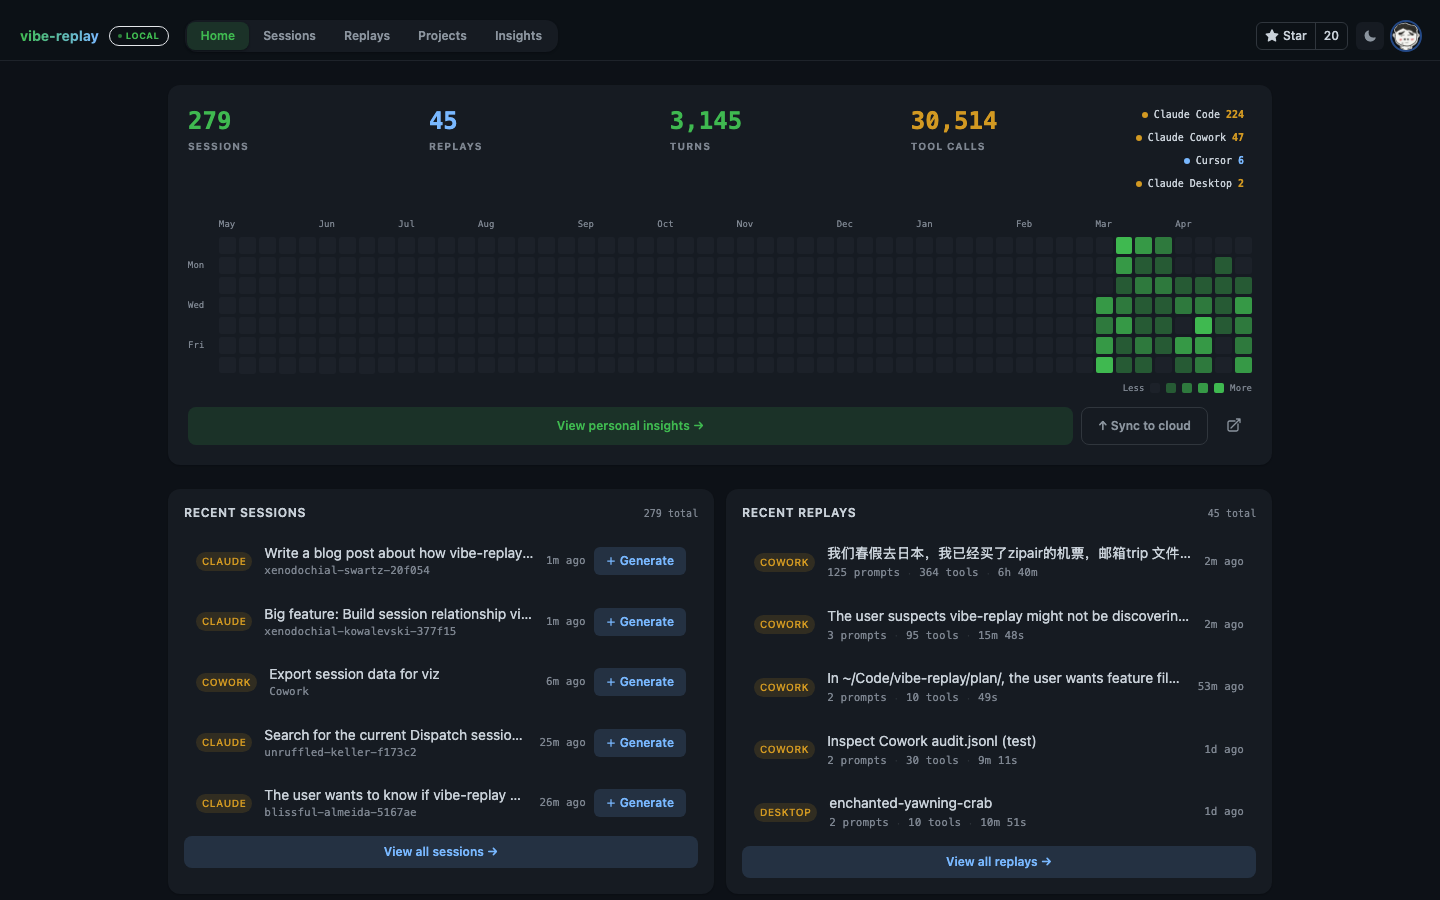
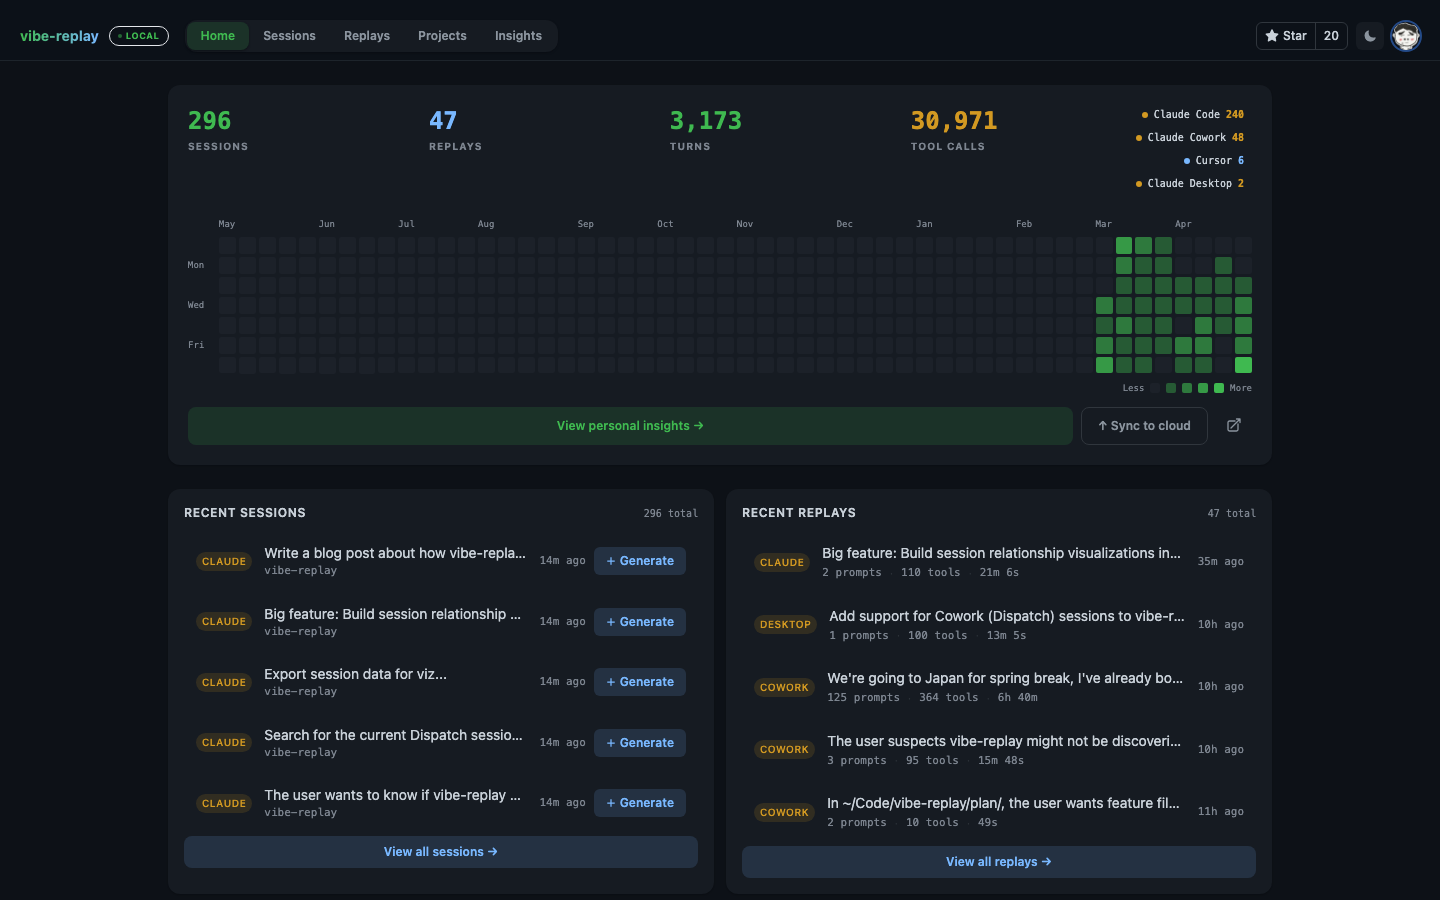
blog: rewrite dispatch deep-dive for narrative pull, refresh screenshots in English
- Restructure around two core insights (self-contained transcripts, cliSessionId trap)
  and open with the Japan-trip Cowork session as a hook instead of leading with
  Code-tab vs Cowork-tab background.
- Trim large code blocks (dedup priority, encodedCwd path tricks) to prose.
- Regenerate all five screenshots in English using vibe-replay's translate API
  (Studio AI translate) so non-Chinese readers can follow.

diff --git a/website/src/content/blog/dispatch-deep-dive.md b/website/src/content/blog/dispatch-deep-dive.md
@@ -1,201 +1,139 @@
 ---
 title: "Capturing Claude's Autonomous Agent Mode: A Deep Dive into Dispatch"
-excerpt: "vibe-replay now captures Claude Desktop sessions — both the Code tab and Cowork's autonomous Dispatch mode. Here's how three different providers discover, deduplicate, and replay every session type Claude produces."
+excerpt: "I let Claude plan a 6-hour Japan trip in Cowork mode. Then I tried to replay it — and vibe-replay couldn't see the session at all. Here's what it took to fix that."
 cover: "/blog/dispatch-deep-dive/dashboard.png"
 date: 2026-04-25
 readTime: "8 min read"
 ---
 
-[![vibe-replay dashboard showing 279 sessions across Claude Code, Claude Cowork, Cursor, and Claude Desktop providers](/blog/dispatch-deep-dive/dashboard.png)](/blog/dispatch-deep-dive/dashboard.png)
+I let Claude plan a Japan spring break trip in autonomous mode. 6 hours, 125 prompts, 364 tool calls — Gmail searches, browser sessions, calendar checks, all chained together while I went about my day. When I came back, I wanted to replay it.
 
-When you open Claude Desktop, you get two very different AI experiences. The **Code tab** is Claude Code running in a managed environment — the same CLI, the same JSONL transcripts, same tool calls you'd see in your terminal. The **Cowork tab** is something else entirely: an autonomous agent mode where Claude runs in an isolated sandbox VM, orchestrates multi-step plans on your behalf, and writes its transcript into a completely different location on disk.
-
-vibe-replay now captures both. This post covers the architecture that makes it work.
-
----
-
-## What is Dispatch?
-
-When Claude Desktop runs in Cowork (autonomous agent) mode, it operates what Anthropic internally calls **Dispatch** — an orchestrator process that manages long-running agentic sessions. The name is fitting: Dispatch spawns and coordinates child tasks, maintains its own session state, and keeps a full audit trail separate from your regular Claude Code sessions.
-
-Each Cowork session runs inside a sandboxed VM with its own process name — codenames like `hopeful-awesome-feynman` or `zealous-wonderful-meitner` — and its own isolated filesystem rooted at `/sessions/{processName}/`. Your real folders are mounted into this sandbox via `userSelectedFolders`, but the session itself doesn't know it's running on your Mac. It thinks it has a fresh environment.
-
-The transcript format is almost identical to Claude Code's JSONL — but the outer wrapper records carry a `session_id` field instead of using filenames as identifiers, and tool names use MCP-style prefixes (`mcp__workspace__bash` instead of `Bash`, `mcp__cowork__request_cowork_directory` for workspace access). These subtle differences are what the new `claude-cowork` provider handles.
-
----
-
-## Where the Sessions Live
-
-Here's what the filesystem looks like after a few days of Claude Desktop usage:
-
-```
-~/Library/Application Support/Claude/
-├── claude-code-sessions/          ← Code tab sessions (Desktop provider)
-│   └── {accountId}/{orgId}/
-│       └── local_{id}.json        ← metadata: title, model, cliSessionId, cwd
-│
-└── local-agent-mode-sessions/     ← Cowork/Dispatch sessions
-    └── {accountId}/{orgId}/
-        ├── local_{id}.json        ← metadata: title, model, initialMessage
-        └── local_{id}/
-            └── audit.jsonl        ← full transcript (self-contained)
-```
-
-Compare this to Claude Code's native location:
-
-```
-~/.claude/projects/
-└── {encoded-cwd}/
-    └── {sessionId}.jsonl          ← transcript (CLI sessions)
-```
-
-The key distinction: **Cowork transcripts are self-contained**. The audit.jsonl file lives next to its metadata JSON, no cross-referencing required. Desktop Code-tab sessions, by contrast, store only metadata locally — the actual transcript is in `~/.claude/projects/`, referenced by `cliSessionId`.
-
----
-
-## Three Providers, One Discovery Pass
-
-vibe-replay now runs three parallel discovery passes, each targeting a different location:
-
-### `claude-code` — The original
-
-Scans `~/.claude/projects/` for JSONL files. Streams each file line-by-line, extracting session metadata from the first ~30 lines (slug, model, git branch) and counting prompts and tool calls with lightweight regex passes over every line. Returns one `SessionInfo` per file.
-
-### `claude-desktop` — Code tab sessions from Desktop
-
-Reads metadata from `~/Library/Application Support/Claude/claude-code-sessions/{accountId}/{orgId}/local_*.json`. Each metadata file contains a `cliSessionId` — the UUID of the backing JSONL in `~/.claude/projects/`. The provider encodes the `cwd` field using the same `/` → `-` scheme Claude Code uses for its project directory names, then resolves the JSONL path:
-
-```typescript
-const encodedCwd = desktop.cwd.replace(/\/+$/, "").replace(/\//g, "-");
-const jsonlPath = join(claudeProjectsDir, encodedCwd, `${desktop.cliSessionId}.jsonl`);
-```
-
-Once the JSONL is found, it hands off to the same `extractSessionInfo` function used by the `claude-code` provider, then overlays the richer Desktop metadata (title, model, timestamps) on top.
-
-### `claude-cowork` — Dispatch/autonomous sessions
-
-Reads metadata from `~/Library/Application Support/Claude/local-agent-mode-sessions/{accountId}/{orgId}/local_*.json`. Instead of resolving an external JSONL, it looks for the co-located audit file:
-
-```typescript
-const dir = jsonPath.replace(/\.json$/, "");  // local_{id}.json → local_{id}/
-const auditPath = join(dir, "audit.jsonl");
-```
-
-Then streams the audit.jsonl to count prompts and tool calls — the same line-by-line streaming approach as `claude-code`, but adapted for the Cowork wrapper format.
-
-One ID subtlety that matters: the `sessionId` used for deduplication is derived from the metadata's `sessionId` field (stripping the `local_` prefix), **not** the `cliSessionId`. The `cliSessionId` in a Cowork session identifies the inner Claude Code subprocess running inside the sandbox — a completely different UUID that doesn't appear on the outer audit records the parser reads. Using it for session identity would permanently break replay-to-source linking.
-
----
-
-## Deduplication: When the Same Session Appears Twice
-
-Claude Code sessions surfaced through the Desktop UI have a real collision problem: the same JSONL file on disk shows up under both `claude-code` (which finds it by scanning `~/.claude/projects/`) and `claude-desktop` (which resolves it via `cliSessionId`). Both providers assign the same `sessionId` to this session.
-
-After all three providers finish discovery, vibe-replay deduplicates by `sessionId` with a priority ordering:
-
-```typescript
-const PROVIDER_PRIORITY = ["claude-cowork", "claude-desktop", "claude-code", "cursor"];
-```
-
-```typescript
-export function deduplicateSessionsByProvider(sessions: SessionInfo[]): SessionInfo[] {
-  const seen = new Map<string, SessionInfo>();
-  for (const session of sessions) {
-    const existing = seen.get(session.sessionId);
-    if (!existing) {
-      seen.set(session.sessionId, session);
-    } else {
-      const existingPrio = PROVIDER_PRIORITY.indexOf(existing.provider);
-      const newPrio = PROVIDER_PRIORITY.indexOf(session.provider);
-      if (newPrio !== -1 && (existingPrio === -1 || newPrio < existingPrio)) {
-        seen.set(session.sessionId, session);
-      }
-    }
-  }
-  return Array.from(seen.values());
-}
-```
-
-The priority order reflects data quality: `claude-desktop` keeps the session over `claude-code` because it has richer metadata — the title that Claude Desktop infers, the exact model used, and precise timestamps from the Desktop process. `claude-cowork` ranks first because its transcript is authoritative and self-contained. `cursor` uses an entirely different ID scheme, so it never collides with the Claude family.
-
----
-
-## What a Cowork Replay Looks Like
-
-Here's a real Cowork session — 125 prompts, 364 tool calls, 6 hours and 40 minutes of autonomous Claude planning a Japan spring break trip:
+vibe-replay couldn't see the session.
 
 [![Cowork session landing page showing 'A Claude Cowork session replay by vibe-replay' — 125 turns, $71.07 cost](/blog/dispatch-deep-dive/cowork-landing.png)](/blog/dispatch-deep-dive/cowork-landing.png)
 
-The landing page shows the "Claude Cowork session" label, the sandbox VM's process name as the title, and the tool call summary. Tools include `gmail_read_message`, `AskUserQuestion`, `navigate`, and `Claude_in_Chrome` — the full MCP toolkit that Cowork makes available.
+It now can. This is what it took.
+
+---
+
+## Two Claudes in one app
+
+Claude Desktop is actually two AI experiences sharing a window. The **Code tab** is Claude Code in a managed wrapper — the same CLI, the same JSONL transcripts, the same tool calls you'd see in your terminal. The **Cowork tab** is something else entirely: an autonomous agent mode where Claude runs in an isolated sandbox VM, orchestrates multi-step plans on its own, and writes its transcript to a completely different place on disk.
+
+Anthropic internally calls the orchestrator behind Cowork **Dispatch** — and the name fits. Each Cowork session spins up a sandboxed VM with a codename like `hopeful-awesome-feynman` or `zealous-wonderful-meitner`, mounts your real folders into a fake filesystem rooted at `/sessions/{processName}/`, and writes its full audit trail into:
+
+```
+~/Library/Application Support/Claude/local-agent-mode-sessions/.../audit.jsonl
+```
+
+That's nowhere near `~/.claude/projects/`, which is what vibe-replay had been scanning since day one.
+
+That's the surface answer to "why couldn't it see the session." But once I started reading audit files, two deeper things mattered.
+
+---
+
+## Discovery 1: Cowork transcripts are self-contained
+
+Claude Code's storage layout has a small but consequential split. Metadata lives in one place; the transcript lives in another, joined by an ID:
+
+```
+~/.claude/projects/{encoded-cwd}/{sessionId}.jsonl   ← transcript
+~/Library/.../claude-code-sessions/.../local_{id}.json   ← metadata, with cliSessionId pointing back to the JSONL
+```
+
+To replay a Code-tab session, you read the metadata, follow the pointer, and find the JSONL — which means re-implementing Claude's "encode cwd by replacing `/` with `-`" path scheme. Brittle, but solvable.
+
+Cowork chose a different shape:
+
+```
+~/Library/.../local-agent-mode-sessions/{accountId}/{orgId}/
+├── local_{id}.json     ← metadata (title, model, initialMessage)
+└── local_{id}/
+    └── audit.jsonl     ← full transcript, right next door
+```
+
+No cross-references. No path encoding tricks. The transcript sits next to its metadata in a sibling directory. This is the kind of design choice that probably saved its authors a week of debugging — and it lets vibe-replay treat each Cowork session as a single self-contained unit, no matter what sandbox it ran in or what codename it got.
+
+---
+
+## Discovery 2: the `cliSessionId` trap
+
+Cowork sessions also carry a `cliSessionId` field. The name is suggestive — exactly the kind of thing you'd grab as a dedup key without thinking.
+
+Don't.
+
+The `cliSessionId` in a Cowork session is the UUID of the **inner Claude Code subprocess running inside the sandbox VM** — a completely separate process from the one writing the audit trail you're reading. It doesn't appear anywhere on the outer audit records. Treat it as the session's identity and you'll permanently break replay-to-source linking: every time the sandbox restarts that inner CLI, the "same" session gets a new ID.
+
+The right key is the metadata's `sessionId` field (with the `local_` prefix stripped). That's the stable, outer-loop identity of the Cowork session itself.
+
+I learned this the long way. Future me, reading this post, gets to skip that.
+
+---
+
+## Three providers, one discovery pass
+
+With those two insights, the rest of the implementation falls out:
+
+- **`claude-code`** scans `~/.claude/projects/` for raw JSONL files. The original provider.
+- **`claude-desktop`** reads metadata from the Code tab's location, follows `cliSessionId` to `~/.claude/projects/` to find the actual JSONL, and overlays Desktop's richer metadata (title, exact model, permission mode) on top.
+- **`claude-cowork`** reads metadata from the autonomous-mode location and goes straight to the co-located audit.jsonl. No path resolution required — that's discovery 1 paying off.
+
+All three run in parallel and produce a flat list of sessions.
+
+Parallel discovery introduces a collision: the same Code-tab JSONL gets found twice — once raw by `claude-code`, once with metadata by `claude-desktop`. Both providers correctly assign the same `sessionId` to it. Dedup just keeps the best-quality record using a fixed priority:
+
+```
+claude-cowork → claude-desktop → claude-code → cursor
+```
+
+`claude-desktop` wins over `claude-code` because it has the title and model that the Desktop UI inferred. `claude-cowork` ranks first because its transcript is authoritative. `cursor` uses a different ID scheme entirely, so it never collides with the Claude family.
+
+---
+
+## What replay looks like now
+
+A Cowork session in the player:
 
 [![The replay player showing the Japan trip planning session — prompt outline on left, conversation in center, tool use tags visible](/blog/dispatch-deep-dive/cowork-player.png)](/blog/dispatch-deep-dive/cowork-player.png)
 
-The player works identically to Claude Code replays. Left panel shows the session outline with every user prompt. Center shows the conversation: `YOU` turns with the user's message, `ASSISTANT` turns with tool-use summaries and the final response.
+Left panel: outline of every user prompt — useful when there are 125 of them. Center: the conversation, with tool-use tags inline. The MCP toolkit Cowork exposes (`gmail_read_message`, `AskUserQuestion`, `navigate`, `Claude_in_Chrome`) shows up as recognizable tool tags instead of raw `mcp__workspace__*` strings.
 
----
-
-## Desktop Sessions: Richer Metadata
-
-Code-tab sessions running through Claude Desktop get the `claude-desktop` badge and pick up extra metadata that the raw JSONL doesn't contain — the human-readable title Desktop assigns, the exact permission mode, and git worktree context:
+Code-tab sessions running through Desktop pick up extra metadata the raw JSONL never sees — the human-readable title Desktop inferred, the permission mode, the git worktree branch:
 
 [![Claude Desktop session landing showing 'A Claude Desktop session replay' with worktree branch and dangerous mode badge](/blog/dispatch-deep-dive/desktop-session-landing.png)](/blog/dispatch-deep-dive/desktop-session-landing.png)
 
-This session is literally the implementation of the Cowork provider itself. The first prompt: *"Add support for Cowork (Dispatch) sessions to vibe-replay. This builds on top of PR #187..."* The `dangerous mode` badge comes from the Desktop metadata's `permissionMode` field; the `claude/crazy-ishizaka-06a286` tag is the git worktree branch name. Neither is available from the JSONL alone.
+(That session is literally the implementation of the Cowork provider itself. The first prompt: *"Add support for Cowork (Dispatch) sessions to vibe-replay…"* The `dangerous mode` badge and `claude/crazy-ishizaka-06a286` branch name come from Desktop's metadata.)
 
----
-
-## The Dashboard: All Sessions in One Place
-
-With three providers running in parallel, the vibe-replay dashboard shows everything:
+And the dashboard ties it all together:
 
 [![vibe-replay dashboard: 279 sessions — Claude Code 224, Claude Cowork 47, Cursor 6, Claude Desktop 2, plus activity heatmap](/blog/dispatch-deep-dive/dashboard.png)](/blog/dispatch-deep-dive/dashboard.png)
 
-279 sessions total. 224 Claude Code, 47 Cowork, 6 Cursor, 2 Desktop. The heatmap shows activity concentrated in the last few months — that's when most of the Cowork experimentation happened.
-
-The "CLAUDE" badge in the sessions list is `claude-code`. "COWORK" is `claude-cowork`. "DESKTOP" is `claude-desktop`. The badges are how you tell them apart at a glance.
+279 sessions across all four providers. The badges (`CLAUDE`, `COWORK`, `DESKTOP`) are how you tell them apart at a glance:
 
 [![Sessions list showing CLAUDE, COWORK, and DESKTOP provider badges](/blog/dispatch-deep-dive/sessions-list.png)](/blog/dispatch-deep-dive/sessions-list.png)
 
 ---
 
-## Generating a Replay
+## Try it
 
-If you have Claude Desktop installed with Cowork sessions, generating a replay is one command:
+If you've used Cowork at all, you have audit files sitting on disk right now:
 
 ```bash
 npx vibe-replay
 ```
 
-vibe-replay auto-discovers all session types. In the interactive picker, Cowork sessions appear grouped under "Cowork" instead of a filesystem path (since they all run in sandboxed VMs with meaningless paths like `/sessions/hopeful-awesome-feynman`). Select one and a self-contained HTML file drops into `~/.vibe-replay/{sessionId}/index.html`.
+Auto-discovery picks up everything — Code, Desktop, Cowork, Cursor. Pick a session, get a self-contained HTML file in `~/.vibe-replay/{sessionId}/index.html`.
 
-You can also target a specific audit.jsonl directly:
-
-```bash
-npx vibe-replay \
-  -s ~/Library/Application\ Support/Claude/local-agent-mode-sessions/{accountId}/{orgId}/local_{id}/audit.jsonl \
-  -p claude-cowork
-```
-
-Or let the dashboard surface everything at once:
+Or surface them all at once:
 
 ```bash
 npx vibe-replay --dashboard
 ```
 
----
+A few things still ahead: linking Dispatch's child sub-agents back to their parent session, surfacing richer MCP context (which server, which operation) in the player, and a unified timeline across long autonomous runs.
 
-## What's Next
-
-A few things on the roadmap for Cowork/Dispatch support:
-
-**Child task visualization** — When Dispatch spawns sub-agents to execute specific tasks in parallel, each gets its own session. Linking these child sessions back to the parent Dispatch conversation (showing the tree structure of orchestrated work) is the next piece.
-
-**MCP tool mapping** — Cowork sessions use MCP tool names (`mcp__workspace__bash`) where Code sessions use short names (`Bash`). The parser normalizes these today, but surfacing the richer MCP context (which server, which operation) in the replay UI would add clarity.
-
-**Cross-session timeline** — If a single Cowork session spawns work across 6 hours and a dozen tool calls, a unified timeline view across all child tasks would tell the full story of what Dispatch actually did.
-
-The foundation is in place. Every audit.jsonl Claude produces is now fair game.
+But the foundation is in place. Every audit.jsonl Claude produces — Code, Desktop, Cowork — is now fair game.
 
 ---
 
-*vibe-replay is open source. The providers discussed here landed in [PR #187](https://github.com/tuo-lei/vibe-replay/pull/187). If you run Claude Desktop or Cowork, give it a try.*
+*vibe-replay is open source. The providers discussed here landed in [PR #187](https://github.com/tuo-lei/vibe-replay/pull/187).*
